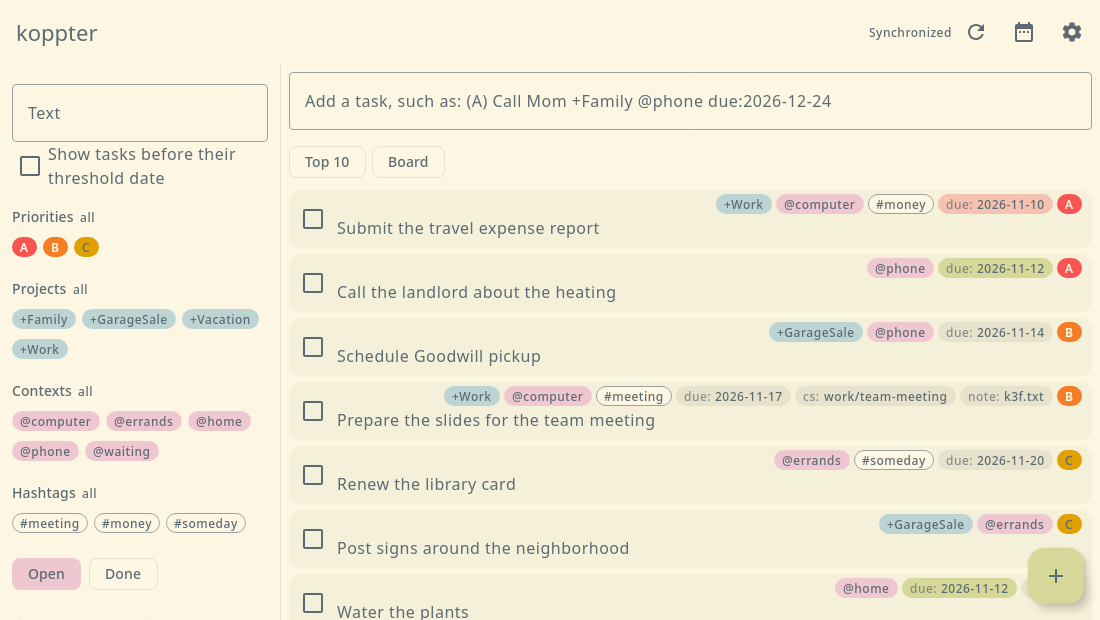
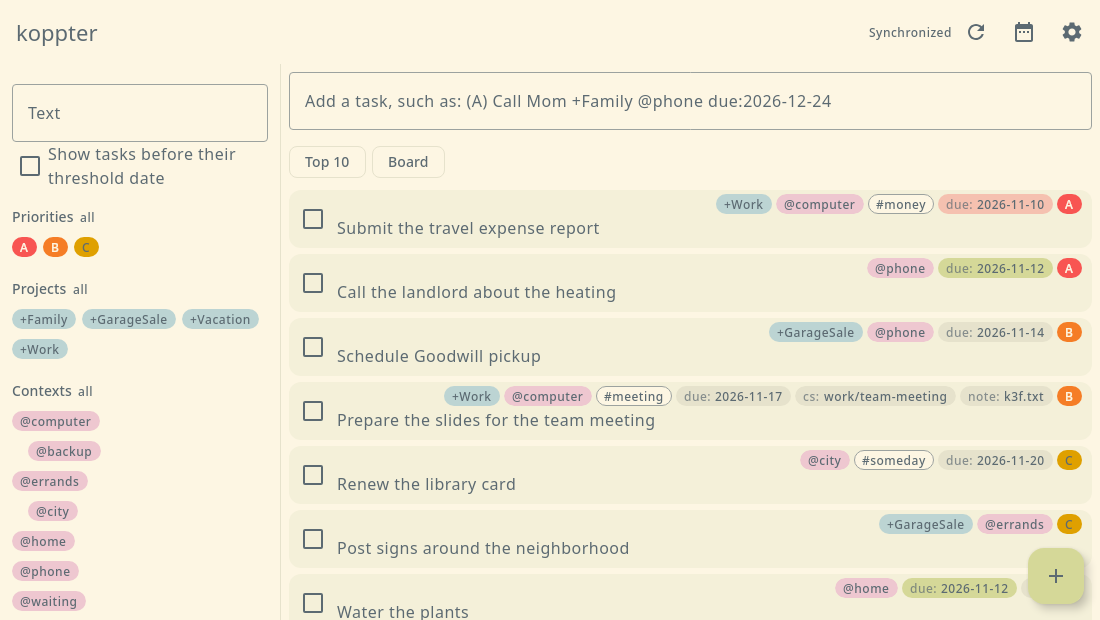
Add contexts below contexts
A flat list of contexts gets long with many tasks. A context such as @research>reading now lies below @research: its label shows the last level, a click on it shows the tasks of the context, and a filter for a context includes the contexts below it.

Changed region(s): [[0.0, 0.6435, 0.2473, 1.0], [0.68, 0.7048, 0.7727, 0.7661]]

diff --git a/app/src/commonMain/kotlin/io/github/koppor/koppter/ui/Labels.kt b/app/src/commonMain/kotlin/io/github/koppor/koppter/ui/Labels.kt
@@ -5,10 +5,17 @@ import androidx.compose.foundation.clickable
 import androidx.compose.foundation.layout.Row
 import androidx.compose.foundation.layout.padding
 import androidx.compose.foundation.shape.RoundedCornerShape
+import androidx.compose.material3.ExperimentalMaterial3Api
 import androidx.compose.material3.MaterialTheme
+import androidx.compose.material3.PlainTooltip
 import androidx.compose.material3.Surface
 import androidx.compose.material3.Text
+import androidx.compose.material3.TooltipAnchorPosition
+import androidx.compose.material3.TooltipBox
+import androidx.compose.material3.TooltipDefaults
+import androidx.compose.material3.rememberTooltipState
 import androidx.compose.runtime.Composable
+import androidx.compose.runtime.staticCompositionLocalOf
 import androidx.compose.ui.Modifier
 import androidx.compose.ui.draw.clip
 import androidx.compose.ui.input.pointer.PointerIcon
@@ -19,8 +26,13 @@ import androidx.compose.ui.semantics.Role
 import androidx.compose.ui.graphics.Color
 import androidx.compose.ui.text.font.FontWeight
 import androidx.compose.ui.unit.dp
+import io.github.koppor.koppter.todotxt.LEVEL_SEPARATOR
 import io.github.koppor.koppter.todotxt.Task
+import io.github.koppor.koppter.todotxt.lastLevel
 import kotlinx.datetime.LocalDate
+
+/** What a click on the context label of a task does with the context. */
+val LocalShowContext = staticCompositionLocalOf<(String) -> Unit> { {} }
 
 /**
  * One label of a task: a rounded box with an optional key, such as `due:`, in front of the value.
@@ -50,12 +62,34 @@ fun Label(text: String, container: Color, content: Color, modifier: Modifier = M
  * All colors come from the theme, so that the labels follow light and dark mode.
  */
 // [impl->dsn~task-labels~1]
+@OptIn(ExperimentalMaterial3Api::class)
 @Composable
 fun TaskLabels(task: Task, today: LocalDate) {
     val colors = MaterialTheme.colorScheme
     val uriHandler = LocalUriHandler.current
     task.projects.forEach { ProjectLabel(it) }
-    task.contexts.forEach { ContextLabel(it) }
+    // [impl->dsn~context-hierarchy~1]
+    val showContext = LocalShowContext.current
+    task.contexts.forEach { context ->
+        val label = @Composable {
+            ContextLabel(
+                context,
+                Modifier.clip(RoundedCornerShape(percent = 50))
+                    .clickable(onClickLabel = "Show the tasks of this context", role = Role.Button) { showContext(context) }
+                    .pointerHoverIcon(PointerIcon.Hand)
+                    .testTag("label-context-$context"),
+            )
+        }
+        if (LEVEL_SEPARATOR in context) {
+            TooltipBox(
+                positionProvider = TooltipDefaults.rememberTooltipPositionProvider(TooltipAnchorPosition.Above),
+                tooltip = { PlainTooltip { Text("@$context") } },
+                state = rememberTooltipState(),
+            ) { label() }
+        } else {
+            label()
+        }
+    }
     task.hashtags.forEach { HashtagLabel(it) }
     task.tags.forEach { (key, value) ->
         val overdue = key == Task.DUE && !task.completed && task.due.let { it != null && it < today }
@@ -86,9 +120,10 @@ fun ProjectLabel(project: String, modifier: Modifier = Modifier, suffix: String 
     Label("+$project$suffix", MaterialTheme.colorScheme.tertiaryContainer, MaterialTheme.colorScheme.onTertiaryContainer, modifier)
 }
 
+/** @param path shows all levels of a hierarchical context instead of the last one */
 @Composable
-fun ContextLabel(context: String, modifier: Modifier = Modifier, suffix: String = "") {
-    Label("@$context$suffix", MaterialTheme.colorScheme.secondaryContainer, MaterialTheme.colorScheme.onSecondaryContainer, modifier)
+fun ContextLabel(context: String, modifier: Modifier = Modifier, suffix: String = "", path: Boolean = false) {
+    Label("@${if (path) context else context.lastLevel}$suffix", MaterialTheme.colorScheme.secondaryContainer, MaterialTheme.colorScheme.onSecondaryContainer, modifier)
 }
 
 // [impl->dsn~hashtags-in-ui~1]

diff --git a/app/src/commonMain/kotlin/io/github/koppor/koppter/ui/FilterPanel.kt b/app/src/commonMain/kotlin/io/github/koppor/koppter/ui/FilterPanel.kt
@@ -28,6 +28,8 @@ import androidx.compose.ui.semantics.Role
 import androidx.compose.ui.unit.dp
 import io.github.koppor.koppter.todotxt.Completion
 import io.github.koppor.koppter.todotxt.Filter
+import io.github.koppor.koppter.todotxt.LEVEL_SEPARATOR
+import io.github.koppor.koppter.todotxt.hierarchyOrder
 
 /**
  * The filter criteria as a column: text, threshold date, priorities, projects, contexts, hashtags, completion.
@@ -63,8 +65,13 @@ fun FilterPanel(
         LabelFilter("Projects", projects, filter.projects, { "filter-project-$it" }, { onChange(filter.copy(projects = it)) }) { value, suffix, modifier ->
             ProjectLabel(value, modifier, suffix)
         }
-        LabelFilter("Contexts", contexts, filter.contexts, { "filter-context-$it" }, { onChange(filter.copy(contexts = it)) }) { value, suffix, modifier ->
-            ContextLabel(value, modifier, suffix)
+        // [impl->dsn~context-hierarchy~1]
+        LabelFilter(
+            "Contexts", contexts, filter.contexts, { "filter-context-$it" }, { onChange(filter.copy(contexts = it)) },
+            order = hierarchyOrder, depth = { context -> context.count { it == LEVEL_SEPARATOR } },
+        ) { value, suffix, modifier ->
+            // A selected context stands outside the tree and shows its path.
+            ContextLabel(value, modifier, suffix, path = suffix.isNotEmpty())
         }
         // [impl->dsn~hashtags-in-ui~1]
         LabelFilter("Hashtags", hashtags, filter.hashtags, { "filter-hashtag-$it" }, { onChange(filter.copy(hashtags = it)) }) { value, suffix, modifier ->
@@ -113,6 +120,9 @@ private fun <T : Comparable<T>> LabelFilter(
     selected: Set<T>,
     tag: (T) -> String,
     onChange: (Set<T>) -> Unit,
+    order: Comparator<T> = naturalOrder(),
+    /** The level of a value in a hierarchy; with levels, the values form a tree, one value per line. */
+    depth: (T) -> Int = { 0 },
     label: @Composable (value: T, suffix: String, modifier: Modifier) -> Unit,
 ) {
     if (values.isEmpty() && selected.isEmpty()) return
@@ -132,10 +142,17 @@ private fun <T : Comparable<T>> LabelFilter(
                 modifier = Modifier.align(Alignment.CenterVertically),
             )
         }
-        for (value in selected.sorted()) label(value, " \u00d7", modifier(value, true))
+        for (value in selected.sortedWith(order)) label(value, " \u00d7", modifier(value, true))
     }
-    FlowRow(horizontalArrangement = Arrangement.spacedBy(6.dp)) {
-        for (value in values.sorted().filter { it !in selected }) label(value, "", modifier(value, false))
+    val others = values.sortedWith(order).filter { it !in selected }
+    if (values.any { depth(it) > 0 }) {
+        Column {
+            for (value in others) label(value, "", modifier(value, false).padding(start = 16.dp * depth(value)))
+        }
+    } else {
+        FlowRow(horizontalArrangement = Arrangement.spacedBy(6.dp)) {
+            for (value in others) label(value, "", modifier(value, false))
+        }
     }
 }
 

diff --git a/core/src/commonMain/kotlin/io/github/koppor/koppter/todotxt/Filter.kt b/core/src/commonMain/kotlin/io/github/koppor/koppter/todotxt/Filter.kt
@@ -4,11 +4,27 @@ import kotlinx.datetime.LocalDate
 
 enum class Completion { ALL, COMPLETED, OPEN }
 
+/** Separates the levels of a hierarchical context: `research>reading` lies below `research`. */
+// [impl->dsn~context-hierarchy~1]
+const val LEVEL_SEPARATOR = '>'
+
+/** Whether the context is [ancestor] or lies below it. */
+fun String.isWithin(ancestor: String): Boolean = this == ancestor || startsWith("$ancestor$LEVEL_SEPARATOR")
+
+/** The context with its ancestors, the outermost first: `a`, `a>b`, `a>b>c`. */
+fun String.withAncestors(): List<String> = split(LEVEL_SEPARATOR).runningReduce { path, level -> "$path$LEVEL_SEPARATOR$level" }
+
+/** The last level of the context, which is what a label shows. */
+val String.lastLevel: String get() = substringAfterLast(LEVEL_SEPARATOR)
+
+/** Sorts a context directly before the contexts below it. */
+val hierarchyOrder: Comparator<String> = compareBy { it.replace(LEVEL_SEPARATOR, '\u0000') }
+
 /**
  * Restricts the task list.
  *
  * The criteria are combined with *and*; within [priorities], [projects], [contexts] and [hashtags] one match
- * suffices. An empty set does not restrict.
+ * suffices. An empty set does not restrict. A context also matches the contexts below it.
  */
 // [impl->dsn~filter~1]
 data class Filter(
@@ -30,7 +46,7 @@ data class Filter(
             (text.isBlank() || task.toLine().contains(text.trim(), ignoreCase = true)) &&
             (priorities.isEmpty() || task.priority in priorities) &&
             (projects.isEmpty() || task.projects.any { it in projects }) &&
-            (contexts.isEmpty() || task.contexts.any { it in contexts }) &&
+            (contexts.isEmpty() || task.contexts.any { context -> contexts.any(context::isWithin) }) &&
             (hashtags.isEmpty() || task.hashtags.any { it in hashtags }) &&
             !(hideFuture && !task.completed && task.threshold.let { it != null && it > today })
 

diff --git a/app/src/desktopTest/kotlin/io/github/koppor/koppter/ui/AppTest.kt b/app/src/desktopTest/kotlin/io/github/koppor/koppter/ui/AppTest.kt
@@ -273,6 +273,31 @@ class AppTest {
         onNodeWithText("Not opened: contextswitcher://switch/missing").assertExists()
     }
 
+    // [utest->dsn~context-hierarchy~1]
+    @Test
+    fun aContextBelowAnotherShowsItsLastLevelAndFiltersByAClick() = runComposeUiTest {
+        storage.text += "Read the survey @research>reading\nReview a paper @research\n"
+        start()
+        onAllNodesWithTag("task").assertCountEquals(5)
+        // The label shows the last level; the path appears when the pointer rests on it.
+        onNode(hasText("@reading") and hasAnyAncestor(hasTestTag("task-labels")), useUnmergedTree = true).assertExists()
+        onNodeWithText("@research>reading").assertDoesNotExist()
+        onNodeWithTag("label-context-research>reading", useUnmergedTree = true).performMouseInput { moveTo(center) }
+        mainClock.advanceTimeBy(2_000)
+        onNodeWithText("@research>reading").assertExists()
+
+        // The filter panel shows the contexts as a tree; the upper context includes the lower one.
+        onNodeWithTag("filter-context-research").performClick()
+        onAllNodesWithTag("task").assertCountEquals(2)
+        onNodeWithTag("filter-clear").performScrollTo().performClick()
+
+        // A click on the label of a task shows the tasks of its context and does not open the task.
+        onNodeWithTag("label-context-research>reading", useUnmergedTree = true).performClick()
+        onNodeWithTag("edit-dialog").assertDoesNotExist()
+        onAllNodesWithTag("task").assertCountEquals(1)
+        onNodeWithTag("filter-context-research>reading").assertIsOn()
+    }
+
     // [utest->dsn~color-themes~1]
     @Test
     fun theSettingsDialogChoosesThePaletteAndItsVariant() = runComposeUiTest {

diff --git a/app/src/commonMain/kotlin/io/github/koppor/koppter/ui/TodoController.kt b/app/src/commonMain/kotlin/io/github/koppor/koppter/ui/TodoController.kt
@@ -22,6 +22,8 @@ import io.github.koppor.koppter.todotxt.parseBoardColumns
 import io.github.koppor.koppter.todotxt.groupEntries
 import io.github.koppor.koppter.todotxt.iceRecurTasks
 import io.github.koppor.koppter.todotxt.Task
+import io.github.koppor.koppter.todotxt.hierarchyOrder
+import io.github.koppor.koppter.todotxt.withAncestors
 import io.github.koppor.koppter.todotxt.TodoFile
 import io.github.koppor.koppter.todotxt.listOrder
 import io.github.koppor.koppter.todotxt.moveToGroup
@@ -118,7 +120,8 @@ class TodoController(
         get() = groupKey?.let { groupEntries(visible, it, today()) } ?: groupByColumns(visible, boardColumns, today())
 
     val projects: List<String> get() = file.entries.flatMap { it.task.projects }.distinct().sorted()
-    val contexts: List<String> get() = file.entries.flatMap { it.task.contexts }.distinct().sorted()
+    /** The contexts of the file and the contexts above them, a context directly before those below it. */
+    val contexts: List<String> get() = file.entries.flatMap { it.task.contexts }.flatMap { it.withAncestors() }.distinct().sortedWith(hierarchyOrder)
     val hashtags: List<String> get() = file.entries.flatMap { it.task.hashtags }.distinct().sorted()
     val priorities: List<Char> get() = file.entries.mapNotNull { it.task.priority }.distinct().sorted()
 

diff --git a/core/src/commonTest/kotlin/io/github/koppor/koppter/todotxt/FilterTest.kt b/core/src/commonTest/kotlin/io/github/koppor/koppter/todotxt/FilterTest.kt
@@ -55,6 +55,20 @@ class FilterTest {
         assertEquals(listOf("Plan holiday"), descriptions(Filter(text = "holiday", hideFuture = false)))
     }
 
+    // [utest->dsn~context-hierarchy~1]
+    @Test
+    fun aContextIncludesTheContextsBelowIt() {
+        val tasks = listOf("Read the survey @research>reading", "Review a paper @research", "Read the manual @researching", "Call @phone").map(Task::parse)
+        fun matching(vararg contexts: String) = tasks.filter { Filter(contexts = contexts.toSet()).matches(it, today) }.map { it.description }
+
+        assertEquals(listOf("Read the survey", "Review a paper"), matching("research"))
+        assertEquals(listOf("Read the survey"), matching("research>reading"))
+        assertEquals(listOf("a", "a>b", "a>b>c"), "a>b>c".withAncestors())
+        assertEquals("c", "a>b>c".lastLevel)
+        // A context stands directly before the contexts below it, not behind a name that only starts alike.
+        assertEquals(listOf("a", "a>b", "a1"), listOf("a1", "a>b", "a").sortedWith(hierarchyOrder))
+    }
+
     // [utest->dsn~sort-order~1]
     @Test
     fun ordersByCompletionPriorityDueDateAndPosition() {

diff --git a/app/src/desktopTest/kotlin/io/github/koppor/koppter/ui/ScreenshotTest.kt b/app/src/desktopTest/kotlin/io/github/koppor/koppter/ui/ScreenshotTest.kt
@@ -69,11 +69,11 @@ class ScreenshotTest {
             (B) Schedule Goodwill pickup +GarageSale @phone due:2026-11-14
             (B) Prepare the slides for the team meeting +Work @computer #meeting due:2026-11-17 cs:work/team-meeting note:k3f.txt
             (C) Post signs around the neighborhood +GarageSale @errands
-            (C) Renew the library card @errands #someday due:2026-11-20
+            (C) Renew the library card @errands>city #someday due:2026-11-20
             Water the plants @home due:2026-11-12 rec:1w
             Book the train to Hamburg +Vacation @computer @waiting
             Compare prices for a new bike +Vacation #money #someday
-            Back up the photos @computer due:2026-12-01 rec:+1m
+            Back up the photos @computer>backup due:2026-12-01 rec:+1m
             x Thank Mom for the meatballs +Family @phone
         """.trimIndent() + "\n"
 

diff --git a/core/src/commonTest/kotlin/io/github/koppor/koppter/todotxt/QueryTest.kt b/core/src/commonTest/kotlin/io/github/koppor/koppter/todotxt/QueryTest.kt
@@ -73,6 +73,15 @@ class QueryTest {
         assertEquals(true, Query.parse("#123").matches(Task.parse("Fix #123"), today))
     }
 
+    // [utest->dsn~context-hierarchy~1]
+    @Test
+    fun aContextTermMatchesAndRemovesTheContextsBelowIt() {
+        val query = Query.parse("@research")
+        assertEquals(true, query.matches(Task.parse("Read the survey @research>reading"), today))
+        assertEquals(false, query.matches(Task.parse("Read the manual @researching"), today))
+        assertEquals("Read the survey", applied("-@research", "Read the survey @research>reading"))
+    }
+
     private fun applied(expression: String, line: String): String? = Query.parse(expression).applyTo(Task.parse(line), today)?.toLine()
 
     // [utest->dsn~board-move-to-filter~1]

diff --git a/core/src/commonMain/kotlin/io/github/koppor/koppter/todotxt/Query.kt b/core/src/commonMain/kotlin/io/github/koppor/koppter/todotxt/Query.kt
@@ -61,9 +61,10 @@ class Query private constructor(private val terms: List<Term>) {
     }
 
     private class Context(val name: String) : Term {
-        override fun matches(task: Task, today: LocalDate) = name in task.contexts
+        // [impl->dsn~context-hierarchy~1]
+        override fun matches(task: Task, today: LocalDate) = task.contexts.any { it.isWithin(name) }
         override fun establish(task: Task, today: LocalDate) = task.edit(contexts = task.contexts + name)
-        override fun revoke(task: Task) = task.edit(contexts = task.contexts - name)
+        override fun revoke(task: Task) = task.edit(contexts = task.contexts.filterNot { it.isWithin(name) })
     }
 
     private class Hashtag(val name: String) : Term {

diff --git a/app/src/commonMain/kotlin/io/github/koppor/koppter/ui/App.kt b/app/src/commonMain/kotlin/io/github/koppor/koppter/ui/App.kt
@@ -101,7 +101,10 @@ fun App(
         }
     }
     MaterialTheme(colorScheme = colorScheme(controller.settings.theme, dark)) {
-        CompositionLocalProvider(LocalUriHandler provides uriHandler) {
+        CompositionLocalProvider(
+            LocalUriHandler provides uriHandler,
+            LocalShowContext provides { controller.filter = controller.filter.copy(contexts = setOf(it)) },
+        ) {
             MainScreen(controller, defaultTodoFile, chooseFile, git)
         }
     }

diff --git a/docs/decisions/0017-levels-of-a-context-separated-by-a-greater-than-sign.md b/docs/decisions/0017-levels-of-a-context-separated-by-a-greater-than-sign.md
@@ -1,0 +1,53 @@
+---
+status: accepted
+date: 2026-11-12
+decision-makers: Oliver Kopp
+---
+
+# The Levels of a Context Are Separated by a Greater-Than Sign
+
+`adr~context-hierarchy~1`
+
+Needs: dsn
+
+## Context and Problem Statement
+
+Contexts group the tasks, and with many tasks a flat list of contexts gets long.
+Areas of work have parts: reading is a part of research.
+The todo.txt format knows a context as one word after `@` and has no notation for a context below another one.
+How does a task name a context that lies below another context?
+
+## Considered Options
+
+* One context whose levels are separated by `>`, such as `@research>reading`
+* One context whose levels are separated by `/`, such as `@research/reading`
+* Several contexts on the task, such as `@research @reading`, and a file that declares the hierarchy
+
+## Decision Outcome
+
+Chosen option: "One context whose levels are separated by `>`", because the line itself tells the place of the task and the sign reads as the path it is.
+
+The label of a task shows the last level; the path appears when the pointer rests on the label.
+A filter for a context includes the contexts below it.
+
+### Consequences
+
+* Good, because other todo.txt tools read the path as one context and keep it.
+* Good, because the hierarchy needs no file of its own and no upper context has to be declared before it is used.
+* Bad, because other tools show the whole path and do not know that `@research` includes `@research>reading`.
+* Bad, because `>` redirects the output in a shell, so that a task added on the command line has to be quoted.
+* Bad, because renaming an upper context means changing every task below it.
+
+## Pros and Cons of the Options
+
+### One context whose levels are separated by `/`
+
+* Good, because it is the notation of paths in file systems and needs no quoting in a shell.
+* Bad, because ids of ContextSwitcher and links contain `/`, so that the sign has two meanings in one line.
+* Bad, because it reads as "or" in prose, as in `@home/office`.
+
+### Several contexts and a file that declares the hierarchy
+
+* Good, because the task line stays short and every tool filters by each level.
+* Bad, because the line alone does not tell which context lies below which.
+* Bad, because a level with the same name below two contexts cannot be told apart.

diff --git a/README.md b/README.md
@@ -99,6 +99,7 @@ The application understands the following extensions, which other todo.txt tools
 | `ice_recur.txt` | Schedules that add tasks on certain days | See [recurring tasks](#recurring-tasks). |
 | `note:k3f.txt` | A note for the task, kept in the file `notes/k3f.txt` | *Note* in the edit dialog; the application names the file. As in the [note add-on](https://github.com/mgarrido/todo.txt-cli/tree/note/todo.actions.d). |
 | `#urgent` | Hashtag: a third kind of label next to `+project` and `@context`, without a fixed meaning | *Add hashtag* in the edit dialog, or typed into the task. A hashtag starts with a letter: `#123` and `C#` stay words of the description ([decision 0014](docs/decisions/0014-hashtags-as-a-third-kind-of-label.md)). |
+| `@research>reading` | A context below another context, over any number of levels | Typed as the context. The label shows `@reading`, and the path when the pointer rests on it; a click on it shows the tasks of the context. A filter for `@research` includes the contexts below it, and the filter panel shows the contexts as a tree ([decision 0017](docs/decisions/0017-levels-of-a-context-separated-by-a-greater-than-sign.md)). |
 | `cs:jabref/fix-npe` | The task of [ContextSwitcher](https://github.com/contextswitcher/contextswitcher) that holds the working context | Entered in the field *ContextSwitcher task* of the edit dialog or typed into the task, as the id or as the link that *Copy link* of ContextSwitcher gives, which becomes the tag. A click on the label switches to the task in ContextSwitcher, on a computer where it has registered its links ([decision 0016](docs/decisions/0016-tag-for-the-task-of-contextswitcher.md)). |
 | `pri:A` | The priority a completed task had | Written when a task with a priority is completed, as the format has no priority for completed tasks; reopening the task restores the priority. |
 
